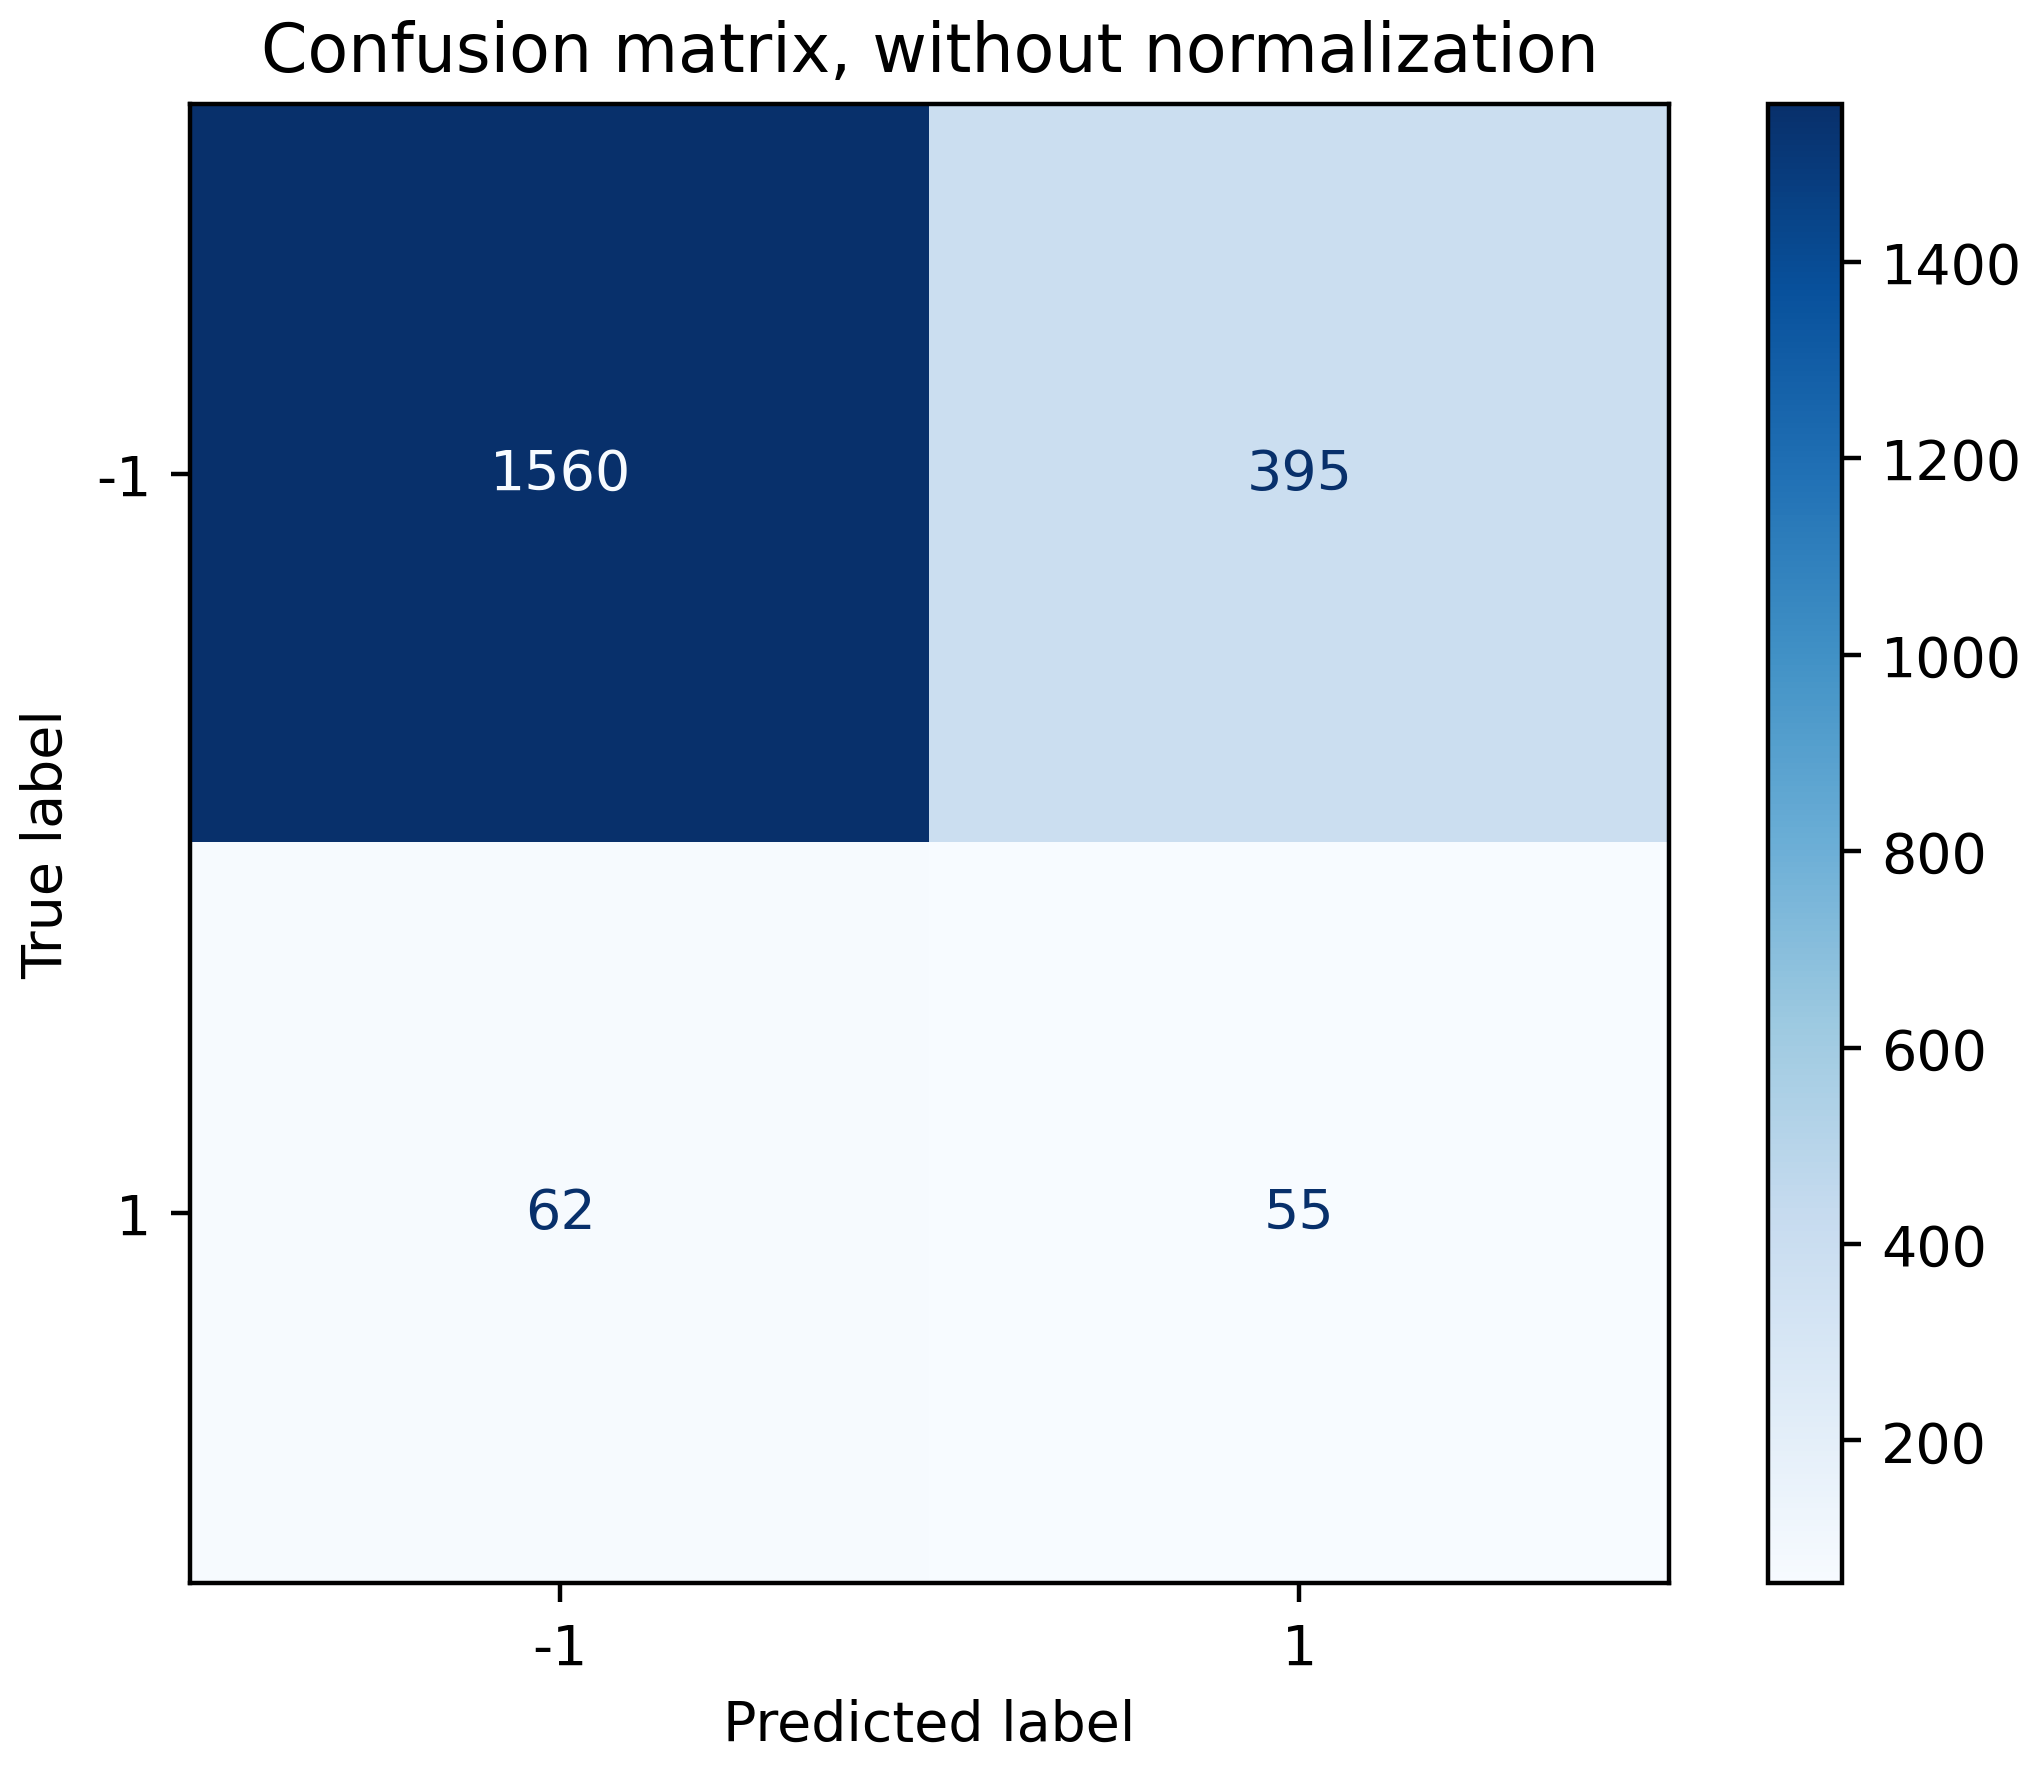
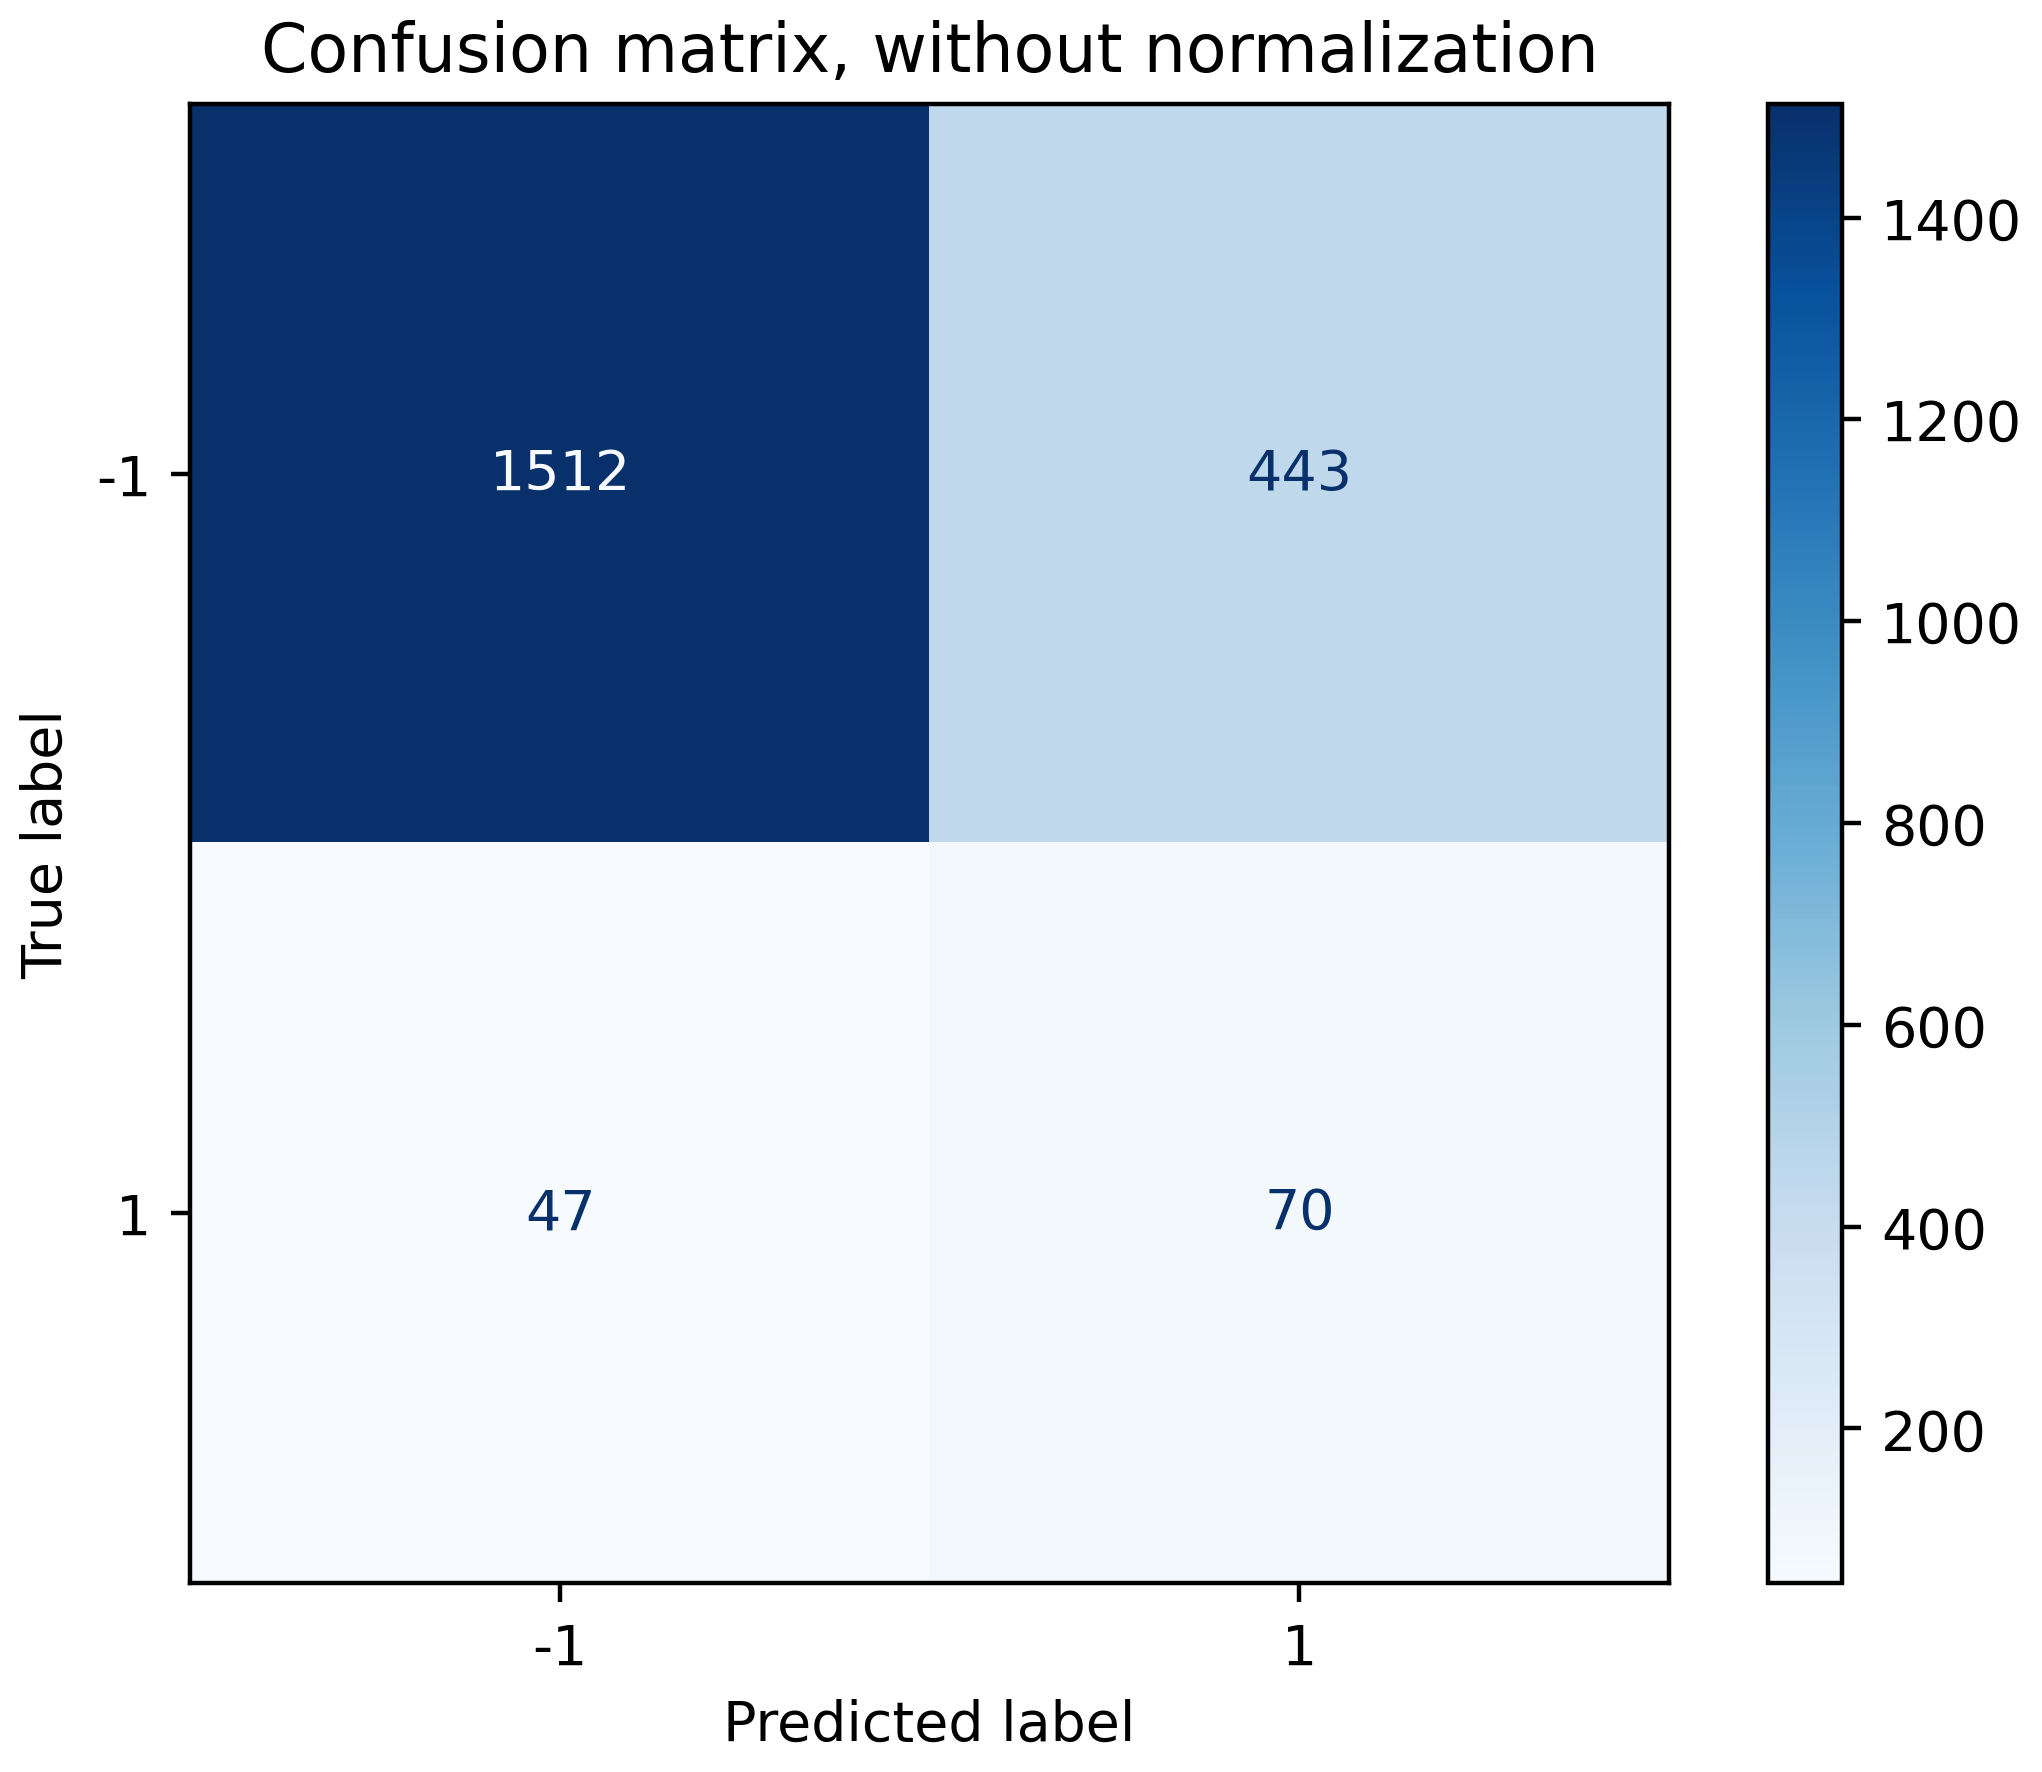
update

diff --git a/lgb_test.py b/lgb_test.py
@@ -7,7 +7,7 @@ from util import *
 print(train_data_)
 
 X, y = split_xy(train_data_)
-X, y = resample(X, y)
+# X, y = resample(X, y)
 name = 'LightGBM'
 
 # 分割数据集 划分为训练集和测试集
@@ -19,7 +19,7 @@ x_train, x_test, y_train, y_test = train_test_split(X, y, test_size=0.25)
 # x_test = std.transform(x_test)
 
 # 预测
-clf = lgb.LGBMClassifier(class_weight='balanced', n_jobs=-1)
+clf = lgb.LGBMClassifier(class_weight='balanced', n_jobs=-1, objective='binary', learning_rate=0.1)
 clf.fit(x_train, y_train)
 print_report(clf, x_test, y_test, "pre-train", name)
 x_test, y_test = split_xy(test_data_)
@@ -28,8 +28,9 @@ print_report(clf, x_test, y_test, "pre-test", name)
 # GridSearchCV 搜索最优 LightGBM ------------------------------------------------------------------------------
 param_grid = {
     'n_estimators': [3, 4, 5, 6, 7, 8, 9, 10, 15, 40, 50, 60, 65, 70, 90, 100],
-    'num_leaves': range(3, 50, 5),
-    # 'max_depth': [5, 7],
+    # 'boosting_type':['gbdt','rf','dart','goss'],
+    # 'num_leaves': range(3, 50, 5),
+    'max_depth': [3, 5, 7],
 }
 clf = lgb.LGBMClassifier(class_weight='balanced', n_jobs=-1)
 grid_search = GridSearchCV(clf, param_grid=param_grid, cv=10, scoring='f1_macro', n_jobs=-1)

diff --git a/LightGBM.tex b/LightGBM.tex
@@ -1,12 +1,13 @@
+LGBMClassifier(class_weight='balanced', max_depth=5, n_estimators=15)
 \begin{table}[!h]
     \centering
     \renewcommand{\arraystretch}{1.5}
     \begin{tabular}{|r|c|c|c|}
         \hline
                   & Precision & Recall & F1-score \\ \hline
-        -1        &     0.96178     &     0.79795   &    0.87224      \\ \hline
-        1         &     0.12222      &     0.47009   &   0.19400       \\ \hline
-        macro avg &      0.54200     &     0.63402   &    0.53312      \\ \hline
+        -1        &     0.96985     &     0.77340   &    0.86056      \\ \hline
+        1         &     0.13645      &     0.59829   &   0.22222       \\ \hline
+        macro avg &      0.55315     &     0.68585   &    0.54139      \\ \hline
     \end{tabular}
     \caption{LightGBM}
 \end{table}
